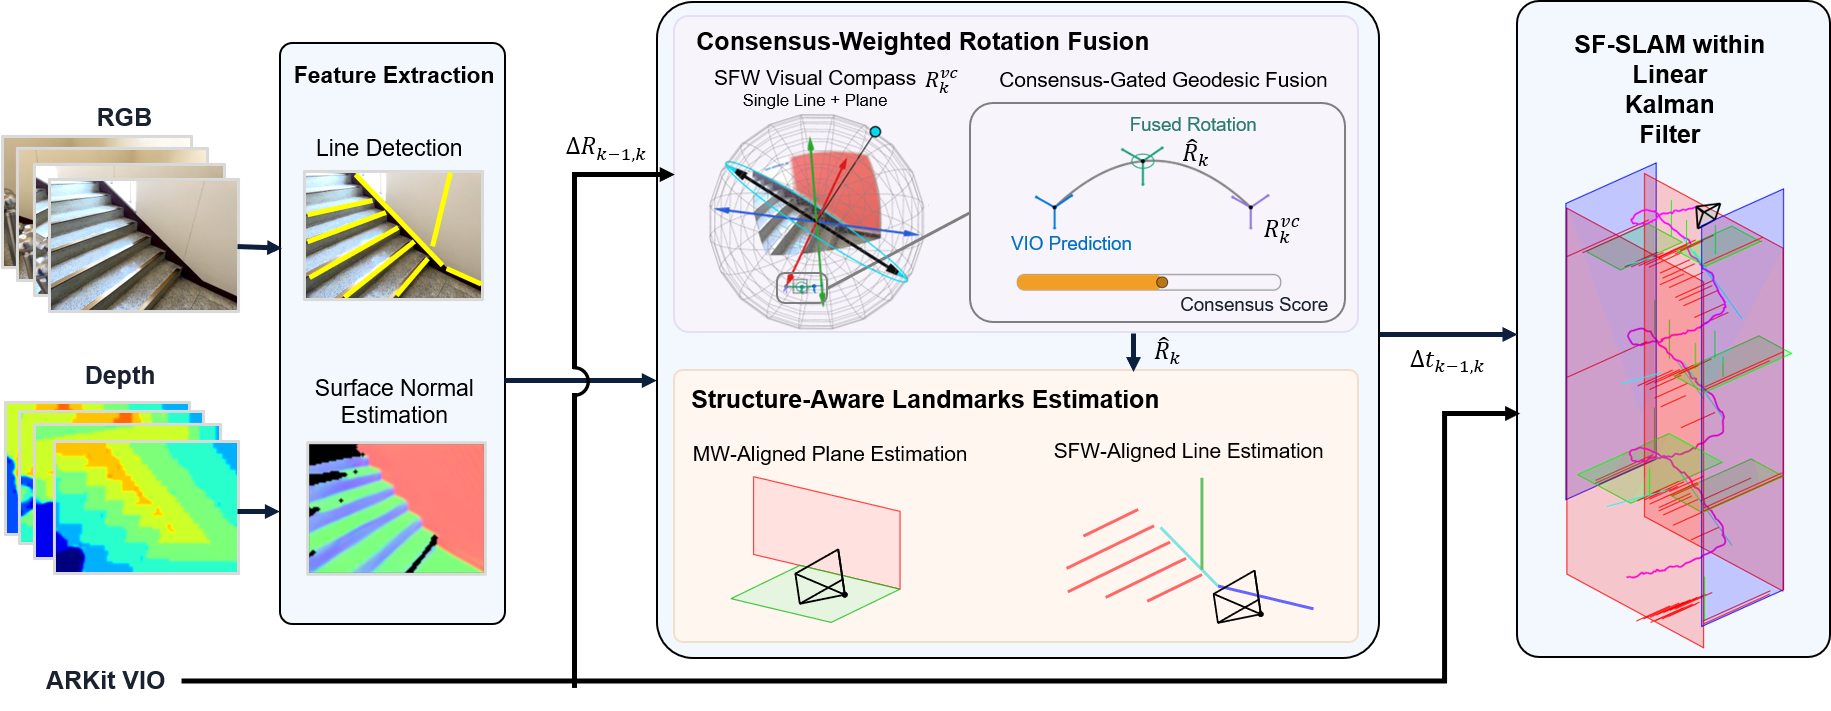
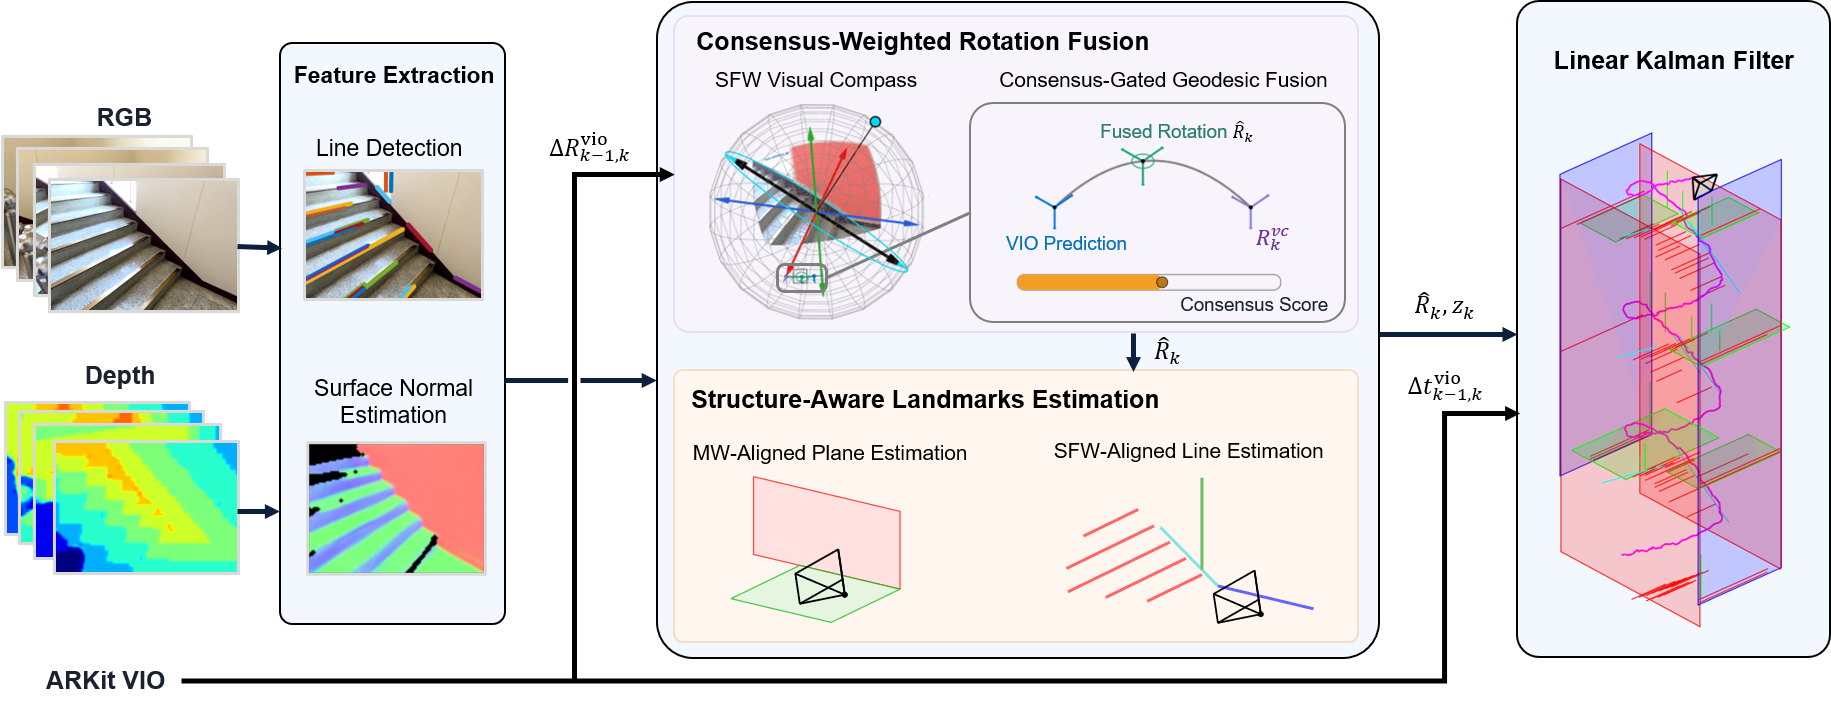
Sync page to paper source (4): new pipeline figure and consensus figures
Refresh images/figure_pipeline.png and images/fig3_dataset.png from the
current Overleaf export. The new pipeline diagram routes the fused
rotation into the linear KF explicitly (R_k, z_k and dt_vio arrows) and
shows clustered rather than single-colour line detections.

Add the two new method figures from the paper: the SFW Visual Compass
failure modes (Figure 3) and the long-baseline consensus test with
geodesic fusion (Figure 4), plus a paragraph on the anchor buffer
(7 anchors, 100-frame spacing, 600-frame guaranteed baseline).

Adopt the paper's revised wording: "start point" over "starting point",
"sequences" over "datasets" in table and figure captions, "initial pose"
in the closed-loop definition, the Umeyama/evo alignment detail, and the
new start-end sentence in the dataset figure caption. Mark second-best
cells in the ablation table and label the plane-only column "Ours w/o
Line". Figures renumber to 1-8.

diff --git a/index.html b/index.html
@@ -50,6 +50,9 @@
   }
   figure.fig figcaption b { color:#363636; }
 
+  /* ---- narrower stand-alone figures (method diagrams) ---- */
+  figure.fig.is-narrow > img { max-width:640px; margin:0 auto; }
+
   /* ---- small image grids (dataset thumbs) ---- */
   .img-grid { display:grid; gap:0.5rem; margin-top:0.7rem; align-items:start; }
   .img-grid.cols3 { grid-template-columns:repeat(3, 1fr); }
@@ -252,8 +255,40 @@
           detects image lines and estimates depth-based surface normals. The consensus-weighted rotation fusion module
           obtains the absolute-rotation estimate from the SFW Visual Compass using a single line and a tracked plane
           normal, and fuses it with the VIO prediction using long-baseline consensus. The fused rotation guides
-          MW-aligned plane and SFW-aligned line estimation, while the linear KF combines the resulting structural
-          measurements with VIO translation to estimate the camera translation and global structural map.</figcaption>
+          MW-aligned plane and SFW-aligned line estimation and directly provides the rotational component of the
+          estimated pose, while the linear Kalman filter combines the resulting structural measurements with the
+          VIO translation to estimate the camera translation and the global structural map.</figcaption>
+        </figure>
+
+        <div class="content has-text-justified" style="margin-top:1.9rem;">
+          <p>
+            The compass is an <i>absolute</i> reference, but it is not always trustworthy: a lone line parallel to the
+            dominant plane adds no independent constraint, a vanishing-point assignment can be ambiguous, reflective
+            surfaces and moving doors remove the tracked plane, and the estimated inclination can disagree across
+            lines. Rather than gating each frame on its own residual &mdash; which cannot separate a
+            fraction-of-a-degree bias from ordinary VIO noise &mdash; SF-SLAM scores every compass estimate against an
+            <b>anchor buffer</b> of the seven most recent accepted frames, spaced at least 100 frames apart, so the
+            agreement is always measured over a baseline of at least 600 frames.
+          </p>
+        </div>
+        <figure class="fig">
+          <img src="images/figure_compass_failures.png" alt="Four representative failure modes of the SFW Visual Compass" loading="lazy">
+          <figcaption><b>Figure 3.</b> Representative failure modes of the SFW Visual Compass. (a) Only a single
+          unreliable line (yellow) is detected, and it is parallel to the dominant plane (red), contributing no
+          rotation constraint independent of the plane. (b) The red line segment is horizontal but, absent image
+          context, geometrically indistinguishable from the vertical direction, leaving its vanishing-point
+          assignment ambiguous. (c) Reflective surfaces corrupt the depth measurements and transient door motion
+          temporarily removes the tracked dominant plane. (d) The estimated inclination angle is inconsistent across
+          the detected lines.</figcaption>
+        </figure>
+
+        <figure class="fig is-narrow" style="margin-top:2rem;">
+          <img src="images/figure_consensus.png" alt="Long-baseline consensus scoring and consensus-gated geodesic fusion" loading="lazy">
+          <figcaption><b>Figure 4.</b> Long-baseline consensus test and geodesic fusion. (a) The relative-rotation
+          disagreement between VIO and the SFW Visual Compass is evaluated over the anchor buffer (consecutive anchors
+          at least &delta; frames apart) and aggregated into a consensus score. (b) When the visual-compass estimate
+          passes the consensus test, it is fused with the VIO prediction along their connecting geodesic on SO(3);
+          otherwise, the update reduces to pure VIO propagation.</figcaption>
         </figure>
       </div>
     </div>
@@ -268,8 +303,10 @@
         <h2 class="title is-3">SF-SLAM Dataset</h2>
         <figure class="fig">
           <img src="images/fig3_dataset.png" alt="Sample image sequences from the SF-SLAM dataset with line clustering">
-          <figcaption><b>Figure 3.</b> Representative frames from the seven sequences of the SF-SLAM dataset,
-          overlaid with line-clustering results from SF-SLAM.</figcaption>
+          <figcaption><b>Figure 5.</b> Representative frames from the seven sequences of the SF-SLAM dataset,
+          overlaid with line-clustering results from SF-SLAM. The leftmost column shows a closed-loop start&ndash;end
+          pair whose views coincide; the rightmost an open-loop pair ending at the same structural corner several
+          stories higher.</figcaption>
         </figure>
         <div class="content has-text-justified" style="margin-top:1.3rem;">
           <p>
@@ -284,11 +321,11 @@
             dataset consists of two sequence types:
           </p>
           <ul>
-            <li><b>Closed-loop sequences:</b> The camera returns to its starting position, which anchors the
-            accumulated drift measurement over long trajectories (leftmost column of Figure 3: the start and end
+            <li><b>Closed-loop sequences:</b> The camera returns to its initial pose, which anchors the
+            accumulated drift measurement over long trajectories (leftmost column of Figure 5: the start and end
             views coincide).</li>
             <li><b>Open-loop sequences:</b> The camera climbs stairs and ends at a repeating structural corner several
-            stories above the starting point (rightmost column of Figure 3: the start and end views show the same
+            stories above the start point (rightmost column of Figure 5: the start and end views show the same
             corner on different stories).</li>
           </ul>
         </div>
@@ -329,7 +366,8 @@
             Across closed-loop and open-loop sequences, SF-SLAM achieves the lowest final drift error (FDE) on nearly
             every sequence against recent baselines &mdash; HI-SLAM2, StructVIO, ORB-SLAM3, DROID-SLAM, and
             Planar-SLAM &mdash; without relying on loop closure (the exception is the Parking Lot, where a baseline's
-            loop closure snaps its endpoints together). Monocular baselines are Sim(3)-aligned to the ARKit reference before scoring.
+            loop closure snaps its endpoints together). The monocular baseline is aligned to the ARKit reference by
+            Sim(3) Umeyama alignment (evo toolkit) and the FDE is computed with the recovered scale.
             In every table, <b>best is bold</b> and <u>second-best is underlined</u>; &ldquo;&ndash;&rdquo; marks
             tracking failure or no reported result.
           </p>
@@ -338,7 +376,7 @@
         <h3 class="title is-4" style="margin-bottom:0.7rem;">Closed-loop sequences</h3>
         <div class="table-scroll">
           <table class="restable">
-            <caption>Table II. Evaluation results of FDE [m] on author-collected closed-loop datasets.</caption>
+            <caption>Table II. Evaluation results of FDE [m] on author-collected closed-loop sequences.</caption>
             <thead>
               <tr><th>Sequence</th><th>HI-SLAM2</th><th>StructVIO</th><th>ORB-SLAM3</th><th>DROID-SLAM</th><th>Planar-SLAM</th><th class="ours-col">SF-SLAM (Ours)</th></tr>
             </thead>
@@ -393,7 +431,7 @@
           </div>
         </div>
         <p class="has-text-grey" style="font-size:0.87rem; text-align:left; margin-top:0.7rem;">
-          <b>Figure 4.</b> Qualitative comparisons on closed-loop datasets. Green and blue dots represent the starting
+          <b>Figure 6.</b> Qualitative comparisons on closed-loop sequences. Green and blue dots represent the start
           and end points of each trajectory, respectively. For the Planar-SLAM, we plot the results until tracking
           fails.
         </p>
@@ -401,7 +439,7 @@
         <h3 class="title is-4" style="margin:2.2rem 0 0.7rem;">Open-loop (inter-floor) sequences</h3>
         <div class="table-scroll">
           <table class="restable">
-            <caption>Table III. Evaluation results of FDE [m] on author-collected open-loop datasets.</caption>
+            <caption>Table III. Evaluation results of FDE [m] on author-collected open-loop sequences.</caption>
             <thead>
               <tr><th>Sequence</th><th>HI-SLAM2</th><th>StructVIO</th><th>ORB-SLAM3</th><th>DROID-SLAM</th><th>Planar-SLAM</th><th class="ours-col">SF-SLAM (Ours)</th></tr>
             </thead>
@@ -445,14 +483,14 @@
           </div>
         </div>
         <p class="has-text-grey" style="font-size:0.87rem; text-align:left; margin-top:0.7rem;">
-          <b>Figure 5.</b> Qualitative comparisons on open-loop dataset. Green and blue dots represent the starting
+          <b>Figure 7.</b> Qualitative comparisons on open-loop sequences. Green and blue dots represent the start
           and end points of each trajectory, respectively. For the Planar-SLAM, we plot the results until tracking
           fails.
         </p>
 
         <figure class="fig" style="margin-top:2.2rem;">
           <img src="images/fig4_results.png" alt="3D map reconstructions of planes and lines on two sequences">
-          <figcaption><b>Figure 6.</b> 3D map reconstructions comprising planes and lines, generated by the proposed
+          <figcaption><b>Figure 8.</b> 3D map reconstructions comprising planes and lines, generated by the proposed
           SF-SLAM on two sequences from our dataset. For each sequence, the left panel shows the planes and lines
           overlaid onto the point cloud, while the right panel displays the plane and line map. The 3D planes aligned
           to the MW DDs are colored red, green, and blue. The 3D lines aligned to the SFW DDs are colored red, green,
@@ -473,16 +511,16 @@
             <caption>Table IV. Ablation study of FDE [m] on use of structure-aware line estimation.</caption>
             <thead>
               <tr><th rowspan="2">Sequence</th><th colspan="3">Final Drift Error (FDE) [m] &darr;</th></tr>
-              <tr><th>VIO</th><th>VIO + Plane</th><th class="ours-col">VIO + Plane + Line&nbsp;(Ours)</th></tr>
+              <tr><th>VIO</th><th>VIO + Plane<br><span style="font-weight:400; color:#7a7a7a;">(Ours w/o Line)</span></th><th class="ours-col">VIO + Plane + Line&nbsp;(Ours)</th></tr>
             </thead>
             <tbody>
-              <tr><td>Office Building (return)</td><td>0.909</td><td>0.131</td><td class="ours-col ours">0.024</td></tr>
-              <tr><td>Mixed-use Building</td><td>0.469</td><td>0.051</td><td class="ours-col ours">0.046</td></tr>
-              <tr><td>Academic Building A</td><td>0.549</td><td>0.840</td><td class="ours-col ours">0.089</td></tr>
-              <tr><td>Parking Lot</td><td>0.737</td><td>0.312</td><td class="ours-col ours">0.164</td></tr>
-              <tr><td>Office Building (ascending)</td><td>1.119</td><td>0.335</td><td class="ours-col ours">0.215</td></tr>
-              <tr><td>Apartment Building</td><td>0.324</td><td>0.185</td><td class="ours-col ours">0.070</td></tr>
-              <tr><td>Academic Building B</td><td>0.324</td><td>0.240</td><td class="ours-col ours">0.090</td></tr>
+              <tr><td>Office Building (return)</td><td>0.909</td><td class="second">0.131</td><td class="ours-col best">0.024</td></tr>
+              <tr><td>Mixed-use Building</td><td>0.469</td><td class="second">0.051</td><td class="ours-col best">0.046</td></tr>
+              <tr><td>Academic Building A</td><td class="second">0.549</td><td>0.840</td><td class="ours-col best">0.089</td></tr>
+              <tr><td>Parking Lot</td><td>0.737</td><td class="second">0.312</td><td class="ours-col best">0.164</td></tr>
+              <tr><td>Office Building (ascending)</td><td>1.119</td><td class="second">0.335</td><td class="ours-col best">0.215</td></tr>
+              <tr><td>Apartment Building</td><td>0.324</td><td class="second">0.185</td><td class="ours-col best">0.070</td></tr>
+              <tr><td>Academic Building B</td><td>0.324</td><td class="second">0.240</td><td class="ours-col best">0.090</td></tr>
             </tbody>
           </table>
         </div>
